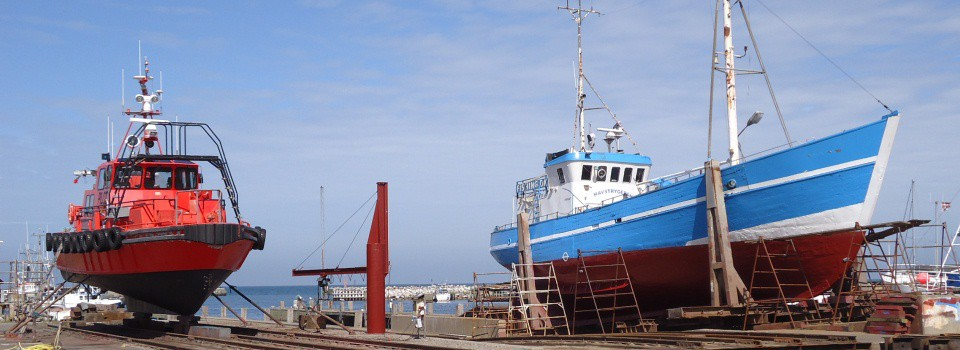
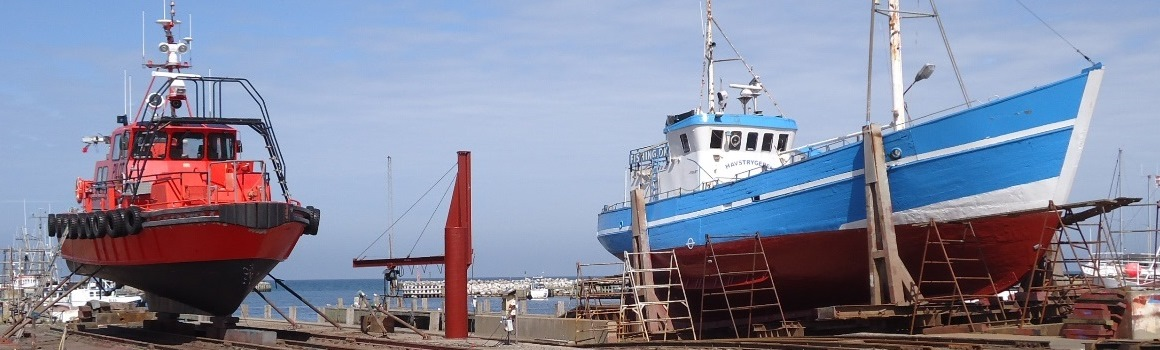
New version of Shipyard - 2.1

diff --git a/style.css b/style.css
@@ -1,10 +1,10 @@
 /*
 Theme Name: Shipyard
 Theme URI: http://www.guidovanderleest.nl/shipyard
-Version: 2.0
+Version: 2.1
 Author: Guido van der Leest
 Author URI: http://www.guidovanderleest.nl
-Description: Shipyard is a free, basic, clean, minimalistic, responsive, mobile friendly, WordPress theme. Primary sidebar, 2 widget-area's in footer, custom header-image, custom background, display logo or blogname and description, full width page-template and dropdown navigation are included. Besides this no theme settings page, no fancy options, no slideshow, this one only has the basic options. Enjoy. 
+Description: Shipyard is a free, basic, clean, minimalistic, responsive, mobile friendly WordPress theme. Primary sidebar, 2 widget-area's in footer, custom header-image, custom background, display logo or blogname and description, full width page-template and dropdown navigation are included. Besides this no theme settings page, no fancy options, no slideshow, this one only has the basic options. Enjoy. 
 Tags: one-column, two-columns, right-sidebar, fixed-layout, responsive-layout, full-width-template, custom-background, custom-header, custom-menu, featured-images, white, orange, light, editor-style, translation-ready
 License: GNU General Public License v3 or later
 License URI: http://www.gnu.org/licenses/gpl-3.0.html
@@ -76,9 +76,9 @@ table {
 
 /* GENERAL */
 body {background: #f8f8f8; font-family: 'Open Sans', sans-serif; font-size:1em; color:#333; line-height:1.5em;}
-#container {max-width: 960px; margin: 10px auto 10px; padding: 20px; background:#fff; border: 1px solid #ccc; border-radius:5px;-moz-border-radius:5px; text-align: left; word-wrap: break-word;}
-#content {width: 60%; float:left; padding: 10px 0 20px; word-wrap: break-word;}
-#content-full {width: 100%; float:left; padding: 10px 0 20px; word-wrap: break-word;}
+#container {max-width: 1160px; margin: 10px auto 10px; padding: 20px; background:#fff; border: 1px solid #ccc; border-radius:5px;-moz-border-radius:5px; text-align: left; word-wrap: break-word;}
+#content {width: 60%; float:left; padding: 15px 0 20px; word-wrap: break-word;}
+#content-full {width: 100%; float:left; padding: 15px 0 20px; word-wrap: break-word;}
 
 h1 {font-size:3.0em; line-height:1.2em;}
 h2 {font-size:2.5em; line-height:1.2em;}
@@ -96,7 +96,7 @@ big {font-size: 1.5em;}
 pre {margin: 5px 0; border: 1px solid #ccc; background: #f8f8f8; padding:10px; word-wrap: break-word;}
 code, cite, em, abbr, acronym, q {font-style:italic;}
 blockquote, address {padding:5px; font-size:1.2em; font-style:italic;}
-p {margin:0 0 20px;}
+p {margin:0 0 10px; text-align:justify;}
 
 table {margin:10px; border-collapse:collapse;}
 table, th, td {border: 1px solid #ccc; padding:5px;}
@@ -120,11 +120,11 @@ select {max-width:100%;}
 #header .header-img {width: 100%; height: auto;}
 #header .logo {width:100%; float:left; text-align:left; padding: 0 0 10px;}
 #header .logo h1 a:hover {text-decoration:none; color:#333;}
-#header .logo h3 {padding:5px 20px 0;}
+#header .logo h3 {padding:5px 0 5px 20px;}
 
 
 /* HEADER MENU */
-.nav-head {background:none;margin:10px 0; clear:both; padding:0; border:1px solid #ccc; border-radius:5px;-moz-border-radius:5px; text-align:left;}
+.nav-head {background:none; clear:both; margin:10px 0; padding:0; border:1px solid #ccc; border-radius:5px;-moz-border-radius:5px; text-align:left;}
 .nav-head select {display:none;}
 .nav-head ul {padding:0; margin: 0;}
 .nav-head ul li {list-style-type: none; display: inline-block; position: relative;}
@@ -144,20 +144,20 @@ select {max-width:100%;}
 /* PAGE */
 .page-title {margin: 0; padding: 0 0 10px; line-height:1em;}
 .pagelink {clear:both; margin:20px 0 10px;}
-.edit-link {display:block; clear:both; margin:10px 0; padding:5px; border:1px solid #f26535; border-radius:5px;-moz-border-radius:5px;}
+.edit-link {display:block; clear:both; margin:10px 0; padding:5px 10px; border:1px solid #f26535; border-radius:5px;-moz-border-radius:5px;}
 
 
 /* POST */
-.post-title {margin: 0; padding: 0;}
+.post-title {margin: 0; padding: 0 0 5px; line-height:1em;}
 .post-title a:hover {color:#333; text-decoration:none;}
 .excerpt {padding:5px 0 0;}
 .sticky {text-align:center; clear:both; color:#fff; background: #f26535; margin: 10px 0 10px; padding:5px; border:0; border-radius:5px;-moz-border-radius:5px;}
-.postmetadata {margin:10px 0; padding:5px; background: #f8f8f8; border:1px solid #ccc; border-radius:5px;-moz-border-radius:5px;}
+.postmetadata {clear:both; margin:10px 0; padding:5px 10px; background: #f8f8f8; border:1px solid #ccc; border-radius:5px;-moz-border-radius:5px;}
 .more {clear:both; margin:0 0 20px; padding:0 0 20px; border-bottom:1px solid #ccc;}
 .more:after {content:''; display:block; clear:both;}
 a.readmore {float:right; padding: 2px 10px; background: #333; color:#fff; border-radius:5px;-moz-border-radius:5px;}
 a.readmore:hover {background: #f26535; text-decoration:none;}
-.post-nav {padding: 5px 0;}
+.post-nav {padding: 5px 0; clear:both;}
 .post-nav:after {content:''; display:block; clear:both;}
 .nav-prev {float:left;}
 .nav-next{float:right;}
@@ -175,6 +175,7 @@ img.aligncenter {display: block; margin-left: auto; margin-right: auto; margin-b
 .aligncenter {display: block; margin-left: auto; margin-right: auto; margin-bottom:1em;}
 
 .wp-post-image {float:left; margin: 10px 20px 5px 0;}
+.single-image {float:left; margin: 5px 20px 5px 0;}
 
 .wp-caption {background:none; max-width: 100%;}
 .wp-caption-text {text-align:center; word-wrap: break-word;}
@@ -202,13 +203,13 @@ img.aligncenter {display: block; margin-left: auto; margin-right: auto; margin-b
 #respond {padding:0; margin:0; clear:both;}
 #commentform label {padding: 0 0 5px; display:block;}
 #commentform textarea, #commentform input {width: 90%; padding:5px;}
-#commentform input[type="submit"]{width:9em; margin:0;} 
+#commentform input[type="submit"]{width:9em;} 
 
 
 /* SIDEBAR AND WIDGETS */
-#sidebar {width: 38%; float: right; margin:20px 0 0; padding:0; word-wrap: break-word;}
+#sidebar {width: 38%; float: right; margin:25px 0 0; padding:0; word-wrap: break-word;}
 .widget {padding:10px 10px 10px; margin: 0 0 20px; border:1px solid #ccc; border-radius:5px;-moz-border-radius:5px;}
-.widgettitle {background:#f8f8f8; color:#333; padding:5px; margin:10px 0; border:1px solid #ccc; border-radius:5px;-moz-border-radius:5px;}
+.widgettitle {background:#f8f8f8; color:#333; padding:5px 10px; margin:10px 0; border:1px solid #ccc; border-radius:5px;-moz-border-radius:5px;}
 #wp-calendar {width:90%;}
 
 
@@ -223,20 +224,21 @@ img.aligncenter {display: block; margin-left: auto; margin-right: auto; margin-b
 /* Mobile */
 @media screen and (max-width: 767px) { 
 	body {font-size:1em; line-height:1.2em;}
-	#container {width: 94%; padding:10px; border:0;}
-	#content, #content-full {width:100%; padding: 0 0 10px;}
-	#header {margin: 0 0 10px;}
-	#header .logo {width:100%; padding: 10px 0; text-align:center;}
-	#header .logo h1 {padding:0; margin:0;font-size:2em;}
-	#header .logo h3 {padding:0; margin:0;font-size:1.3em;}
-	#header .header-img {width: 100%; height: auto;}
-	#sidebar {width:100%; border:0; padding:0; margin:0; float:left;}
-	#footer {width:100%; padding:5px 0 0;}
+	p {text-align:left;}
+	#container {width: 94%; margin: 5px auto 5px; padding:10px 2%; }
+	#content, #content-full {width:100%; padding: 0 0 5px;}
+	#header {margin: 0 0 10px; border-bottom:2px solid #f26535;}
+	#header .logo {padding: 10px 0; text-align:center;}
+	#header .logo h1 {font-size:2em;}
+	#header .logo h3 {padding:0; font-size:1.3em;}
+	#sidebar {width:100%; margin:0; padding: 10px 0 0; float:left; border-top:2px solid #f26535;}
+	#footer {width:100%; padding:5px 0 0; border-top:2px solid #f26535;}
 	.widget {margin: 0 0 10px;}
 	.post-title, .page-title, .widgettitle, .comments-title, .comment-reply-title, .no-comments {font-size:1.3em;}
 	.wp-post-image {width:50%; margin: 10px 10px 5px 0;}
-	.footer-right, .footer-left {width:100%; border:0; margin: 5px 0 0; padding:0; float:left;} 
+	.single-image {width:50%; margin: 5px 10px 5px 0;}
+	.footer-right, .footer-left {width:100%; margin: 5px 0 0; float:left;} 
 	.nav-head ul {display: none;} 
-	.nav-head {padding:0; border:0;}
+	.nav-head {border:0;}
 	.nav-head select {display: block; width: 100%; height: 35px; margin: 0 auto 0; font-size: 1em; line-height: 1.2em; color: #fff; background:#f26535; border:0;}
 }

diff --git a/custom-editor-style.css b/custom-editor-style.css
@@ -17,6 +17,7 @@ table, caption, tr, th, td {
 	vertical-align: baseline;
 }
 
+
 h1 {font-size:3.0em; line-height:1.2em;}
 h2 {font-size:2.5em; line-height:1.2em;}
 h3 {font-size:2.0em; line-height:1.5em;}
@@ -33,7 +34,7 @@ big {font-size: 1.5em;}
 pre {margin: 5px 0; border: 1px solid #ccc; background: #f8f8f8; padding:10px; word-wrap: break-word;}
 code, cite, em, abbr, acronym, q {font-style:italic;}
 blockquote, address {padding:5px; font-size:1.2em; font-style:italic;}
-p {margin:0 0 20px;}
+p {margin:0 0 10px; text-align:justify;}
 
 table {margin:10px; border-collapse:collapse;}
 table, th, td {border: 1px solid #ccc; padding:5px;}

diff --git a/functions.php b/functions.php
@@ -24,7 +24,7 @@
 
 	// Custom header	
 		$args = array(		
-		'width' => 960,
+		'width' => 1160,
 		'height' => 350,
 		'default-image' => get_template_directory_uri() . '/images/boats.jpg',
 		'header-text' => false,
@@ -47,6 +47,8 @@
 	// Resize mode thumbnails
 		set_post_thumbnail_size( 250, 250 ); 
 
+	// Resize single page thumbnail
+		add_image_size( 'single', 250, 250 ); 
 
 	// This feature adds RSS feed links to html head 
 		add_theme_support( 'automatic-feed-links' );

diff --git a/page-full.php b/page-full.php
@@ -10,6 +10,11 @@
 
 	<?php while ( have_posts() ) : the_post(); ?>
 		<h4 class="page-title"><?php the_title(); ?></h4>
+
+		<?php if ( has_post_thumbnail() ) { 
+				the_post_thumbnail('single', array('class' => 'single-image')); 
+		} ?>
+
 		<?php the_content(); ?>
 		<div class="pagelink"><?php wp_link_pages(); ?></div>
 

diff --git a/page.php b/page.php
@@ -9,6 +9,11 @@
 
 	<?php while ( have_posts() ) : the_post(); ?>
 		<h4 class="page-title"><?php the_title(); ?></h4>
+
+		<?php if ( has_post_thumbnail() ) { 
+				the_post_thumbnail('single', array('class' => 'single-image')); 
+		} ?>
+
 		<?php the_content(); ?>
 		<div class="pagelink"><?php wp_link_pages(); ?></div>
 

diff --git a/sidebar.php b/sidebar.php
@@ -4,12 +4,8 @@
  */
 ?>
 
-<div id="sidebar">
-	<?php if ( is_active_sidebar( 'primary' ) ) : ?>
-	
+<?php if ( is_active_sidebar( 'primary' ) ) {?>
+	<div id="sidebar">
 		<?php dynamic_sidebar( 'primary' ); ?>
-
-	<?php else : ?> 
-			
-	<?php endif; ?>
-</div>
+	</div>
+<?php } ?> 

diff --git a/comments.php b/comments.php
@@ -10,7 +10,7 @@ if ( post_password_required() )
 	return;
 ?>
 
-<div id="comments" class="comments-area">
+<div id="comments">
 
 	<?php if ( have_comments() ) : ?>
 		<h4 class="comments-title">
